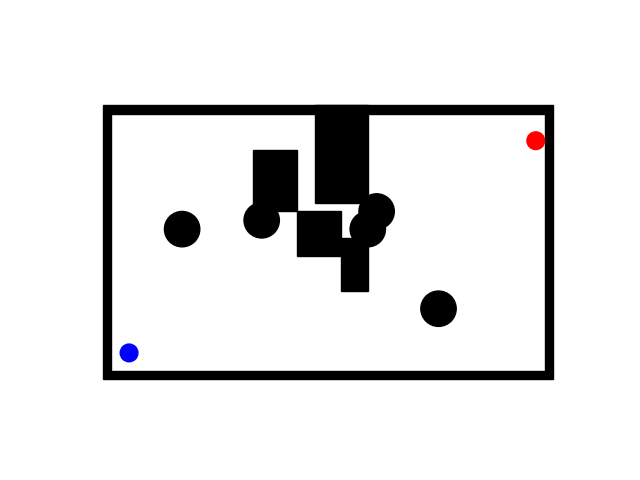
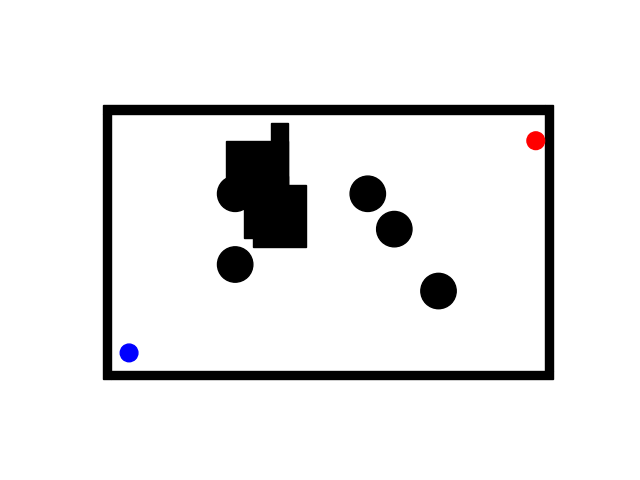
interface for RL model

Changed region(s): [[0.3125, 0.2188, 0.6562, 0.625], [0.6562, 0.5625, 0.7188, 0.6875], [0.25, 0.4375, 0.3125, 0.5312]]

diff --git a/main.py b/main.py
@@ -53,7 +53,7 @@ class Env:
 
 
 
-def plot(env, start, goal):
+def plot(env, start, goal, render_me):
     fig, ax = plt.subplots()
 
     for (ox, oy, w, h) in env.obs_boundary:
@@ -103,7 +103,8 @@ def plot(env, start, goal):
     plt.axis("equal")
     ax.set_axis_off()
     fig.savefig('map.png')#, bbox_inches='tight', pad_inches=0)
-    plt.show()
+    if render_me:
+        plt.show()
     
     
 
@@ -117,9 +118,8 @@ def gen_data(start, goal, seed=None, render_me=True):
     # create env
     env = Env(_seed)
 
-    if render_me:
-        print(_seed)
-        plot(env, start, goal)
+    print(_seed)
+    plot(env, start, goal, render_me)
 
     return env 
 
@@ -140,12 +140,19 @@ def main():
     goal = (49, 27)  # Goal node
 
     # Generate data
-    env = gen_data(start, goal)
+    env = gen_data(start, goal, 420, False)
 
+    # Learning
+    # read map.py
+    from PIL import Image
+    image = Image.open('map.png') 
+    image = np.array(image) / 255
+    t_image = torch.tensor(image).float()
 
-
-    # Learning 
     # TODO: Use RL to generate from image and start and end path weight map
+    from RL_model import Model
+    model = Model()
+    weight = model(t_image)
 
     # TODO: RRT-weighted evaluation here as reward function
 

diff --git a/RL_model.py b/RL_model.py
@@ -1,0 +1,9 @@
+import torch
+import torch.nn as nn
+
+class Model(nn.Module):
+    def __init__(self):
+        super().__init__()
+        pass
+    def forward(self, x):
+        return 42
